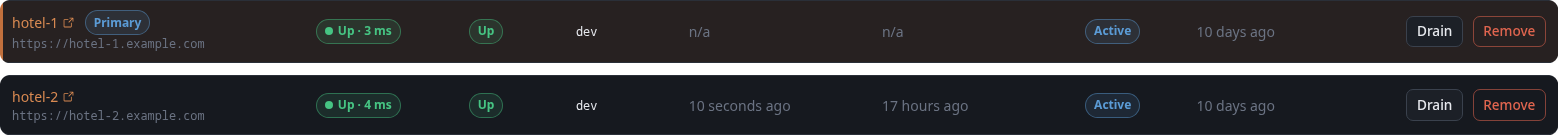
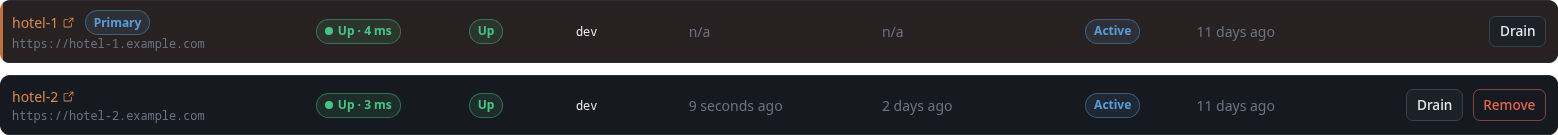
docs(fleet): document #392 primary protection + refresh Front Desk members screenshot
Reflect the HA ownership hardening from #392 in the docs and wiki:
- High Availability: the config-sync primary can never be deleted (no remove
  button, no token bypass) and is changed only via the Fleet Sync wizard;
  same-host repoint is caught by HA self-report; adding a member now needs a
  verified reply and is de-duplicated by stable instance id.
- Alerting: add the fleet.conflict (High Availability) event to the catalog.
- DOCKERHUB-frontdesk: note verified/de-duplicated add and protected primary.
- Retake docs/screenshots/frontdesk_members(.png/_pills.png) so the primary row
  shows only Drain (no Remove).

Also swap the first two DOCKERHUB.md badges so the two passing badges sit together.

diff --git a/wiki/High-Availability.md b/wiki/High-Availability.md
@@ -38,6 +38,11 @@ with the last config it fetched; only membership changes pause until it returns.
 - **Front Desk (control plane)** is a small Go binary with an embedded SQLite
   database and its own web UI. You add, drain, and remove members here, replicate
   config across the fleet, and watch health. It is **never** in the request path.
+  Adding a member requires its admin token **and a verified reply**: an
+  unreachable host, a wrong token, or a host that is already in the fleet (matched
+  by a stable per-instance id, so the same instance can't be added twice under two
+  URLs) is rejected outright rather than saved with a warning. The current primary
+  can never be removed.
 - **Members** are normal, independent Model Hotel installs (app + their own
   Postgres), each on its own host and update schedule. The HA stack does not
   touch them beyond reading health/version and pushing config when you sync.
@@ -209,6 +214,13 @@ You pick a **primary** (the config source of truth); Front Desk pulls its config
 and pushes it to every other member so the fleet converges. Because replacing
 config can remove providers or keys on a replica, the wizard shows a per-member
 diff (added / overwritten / removed) and double-confirms before it writes.
+
+The primary is the fleet's single source of truth, so Front Desk protects it: the
+**primary can never be deleted** (its row has no remove button and no token can
+bypass the guard), and it is changed only by re-running this wizard behind the
+admin token. Re-selecting the same host is caught even when it is added under a
+second URL (public DNS vs a LAN address): Front Desk asks each candidate for its
+own HA self-report and refuses a host that already is the primary.
 
 **What replicates, and what does not:**
 

diff --git a/DOCKERHUB-frontdesk.md b/DOCKERHUB-frontdesk.md
@@ -19,7 +19,7 @@ Front Desk generates Traefik's dynamic config and serves an admin dashboard. It 
 
 ## What it does
 
-- **Member management** - register each Model Hotel instance by URL and admin token, then drain or remove it from the dashboard. Draining stops new traffic without dropping in-flight requests.
+- **Member management** - register each Model Hotel instance by URL and admin token (verified on add, and de-duplicated so the same instance can't join twice), then drain or remove it from the dashboard. Draining stops new traffic without dropping in-flight requests; the config-sync primary is protected and can't be removed.
 - **Traefik dynamic config** - publishes an HTTP-provider endpoint Traefik polls every few seconds, so backend changes apply gracefully (in-flight SSE and streams survive a reload).
 - **Health and version polling** - continuously checks each member's health, latency, Traefik backend status, and version, flagging the odd version out when the fleet disagrees.
 - **Admin-token sync and reset** - push one instance's admin token to every member, or rotate the whole fleet's token at once, with a preview and double-confirm before any overwrite.

diff --git a/DOCKERHUB.md b/DOCKERHUB.md
@@ -6,7 +6,7 @@
 
 **Multi-Provider AI Gateway**
 
-![Github CI](https://github.com/hugalafutro/model-hotel/actions/workflows/ci.yml/badge.svg) ![Go Version](https://img.shields.io/github/go-mod/go-version/hugalafutro/model-hotel) [![golangci-lint](https://github.com/hugalafutro/model-hotel/actions/workflows/lint.yml/badge.svg)](https://github.com/hugalafutro/model-hotel/actions/workflows/lint.yml) ![TypeScript](https://img.shields.io/badge/TypeScript-3178C6?logo=typescript&logoColor=white) ![React](https://img.shields.io/badge/React-61DAFB?logo=react&logoColor=black) ![PostgreSQL](https://img.shields.io/badge/PostgreSQL-4169E1?logo=postgresql&logoColor=white)  ![Coverage](https://codecov.io/github/hugalafutro/model-hotel/branch/master/graph/badge.svg) ![GitHub Repo stars](https://img.shields.io/github/stars/hugalafutro/model-hotel)
+![Github CI](https://github.com/hugalafutro/model-hotel/actions/workflows/ci.yml/badge.svg) [![golangci-lint](https://github.com/hugalafutro/model-hotel/actions/workflows/lint.yml/badge.svg)](https://github.com/hugalafutro/model-hotel/actions/workflows/lint.yml) ![Go Version](https://img.shields.io/github/go-mod/go-version/hugalafutro/model-hotel) ![TypeScript](https://img.shields.io/badge/TypeScript-3178C6?logo=typescript&logoColor=white) ![React](https://img.shields.io/badge/React-61DAFB?logo=react&logoColor=black) ![PostgreSQL](https://img.shields.io/badge/PostgreSQL-4169E1?logo=postgresql&logoColor=white)  ![Coverage](https://codecov.io/github/hugalafutro/model-hotel/branch/master/graph/badge.svg) ![GitHub Repo stars](https://img.shields.io/github/stars/hugalafutro/model-hotel)
 
 
 > **AI-Assisted Project Disclaimer:**

diff --git a/wiki/Alerting.md b/wiki/Alerting.md
@@ -65,6 +65,7 @@ Current events:
 | Provider being probed (half-open) | Failover | ⬜ off | the breaker enters its probe state (noisy) |
 | Failover group sync failed | Failover | ✅ on | a failover group fails to sync |
 | Provider failed during discovery | Discovery | ⬜ off | a provider errors during model discovery |
+| Fleet ownership conflict | High Availability | ✅ on | a second Front Desk tries to claim a member that another Front Desk already owns (debounced per member, once/hour) |
 
 On first run the default-on events are pre-selected. Deselecting everything means nothing fires.
 